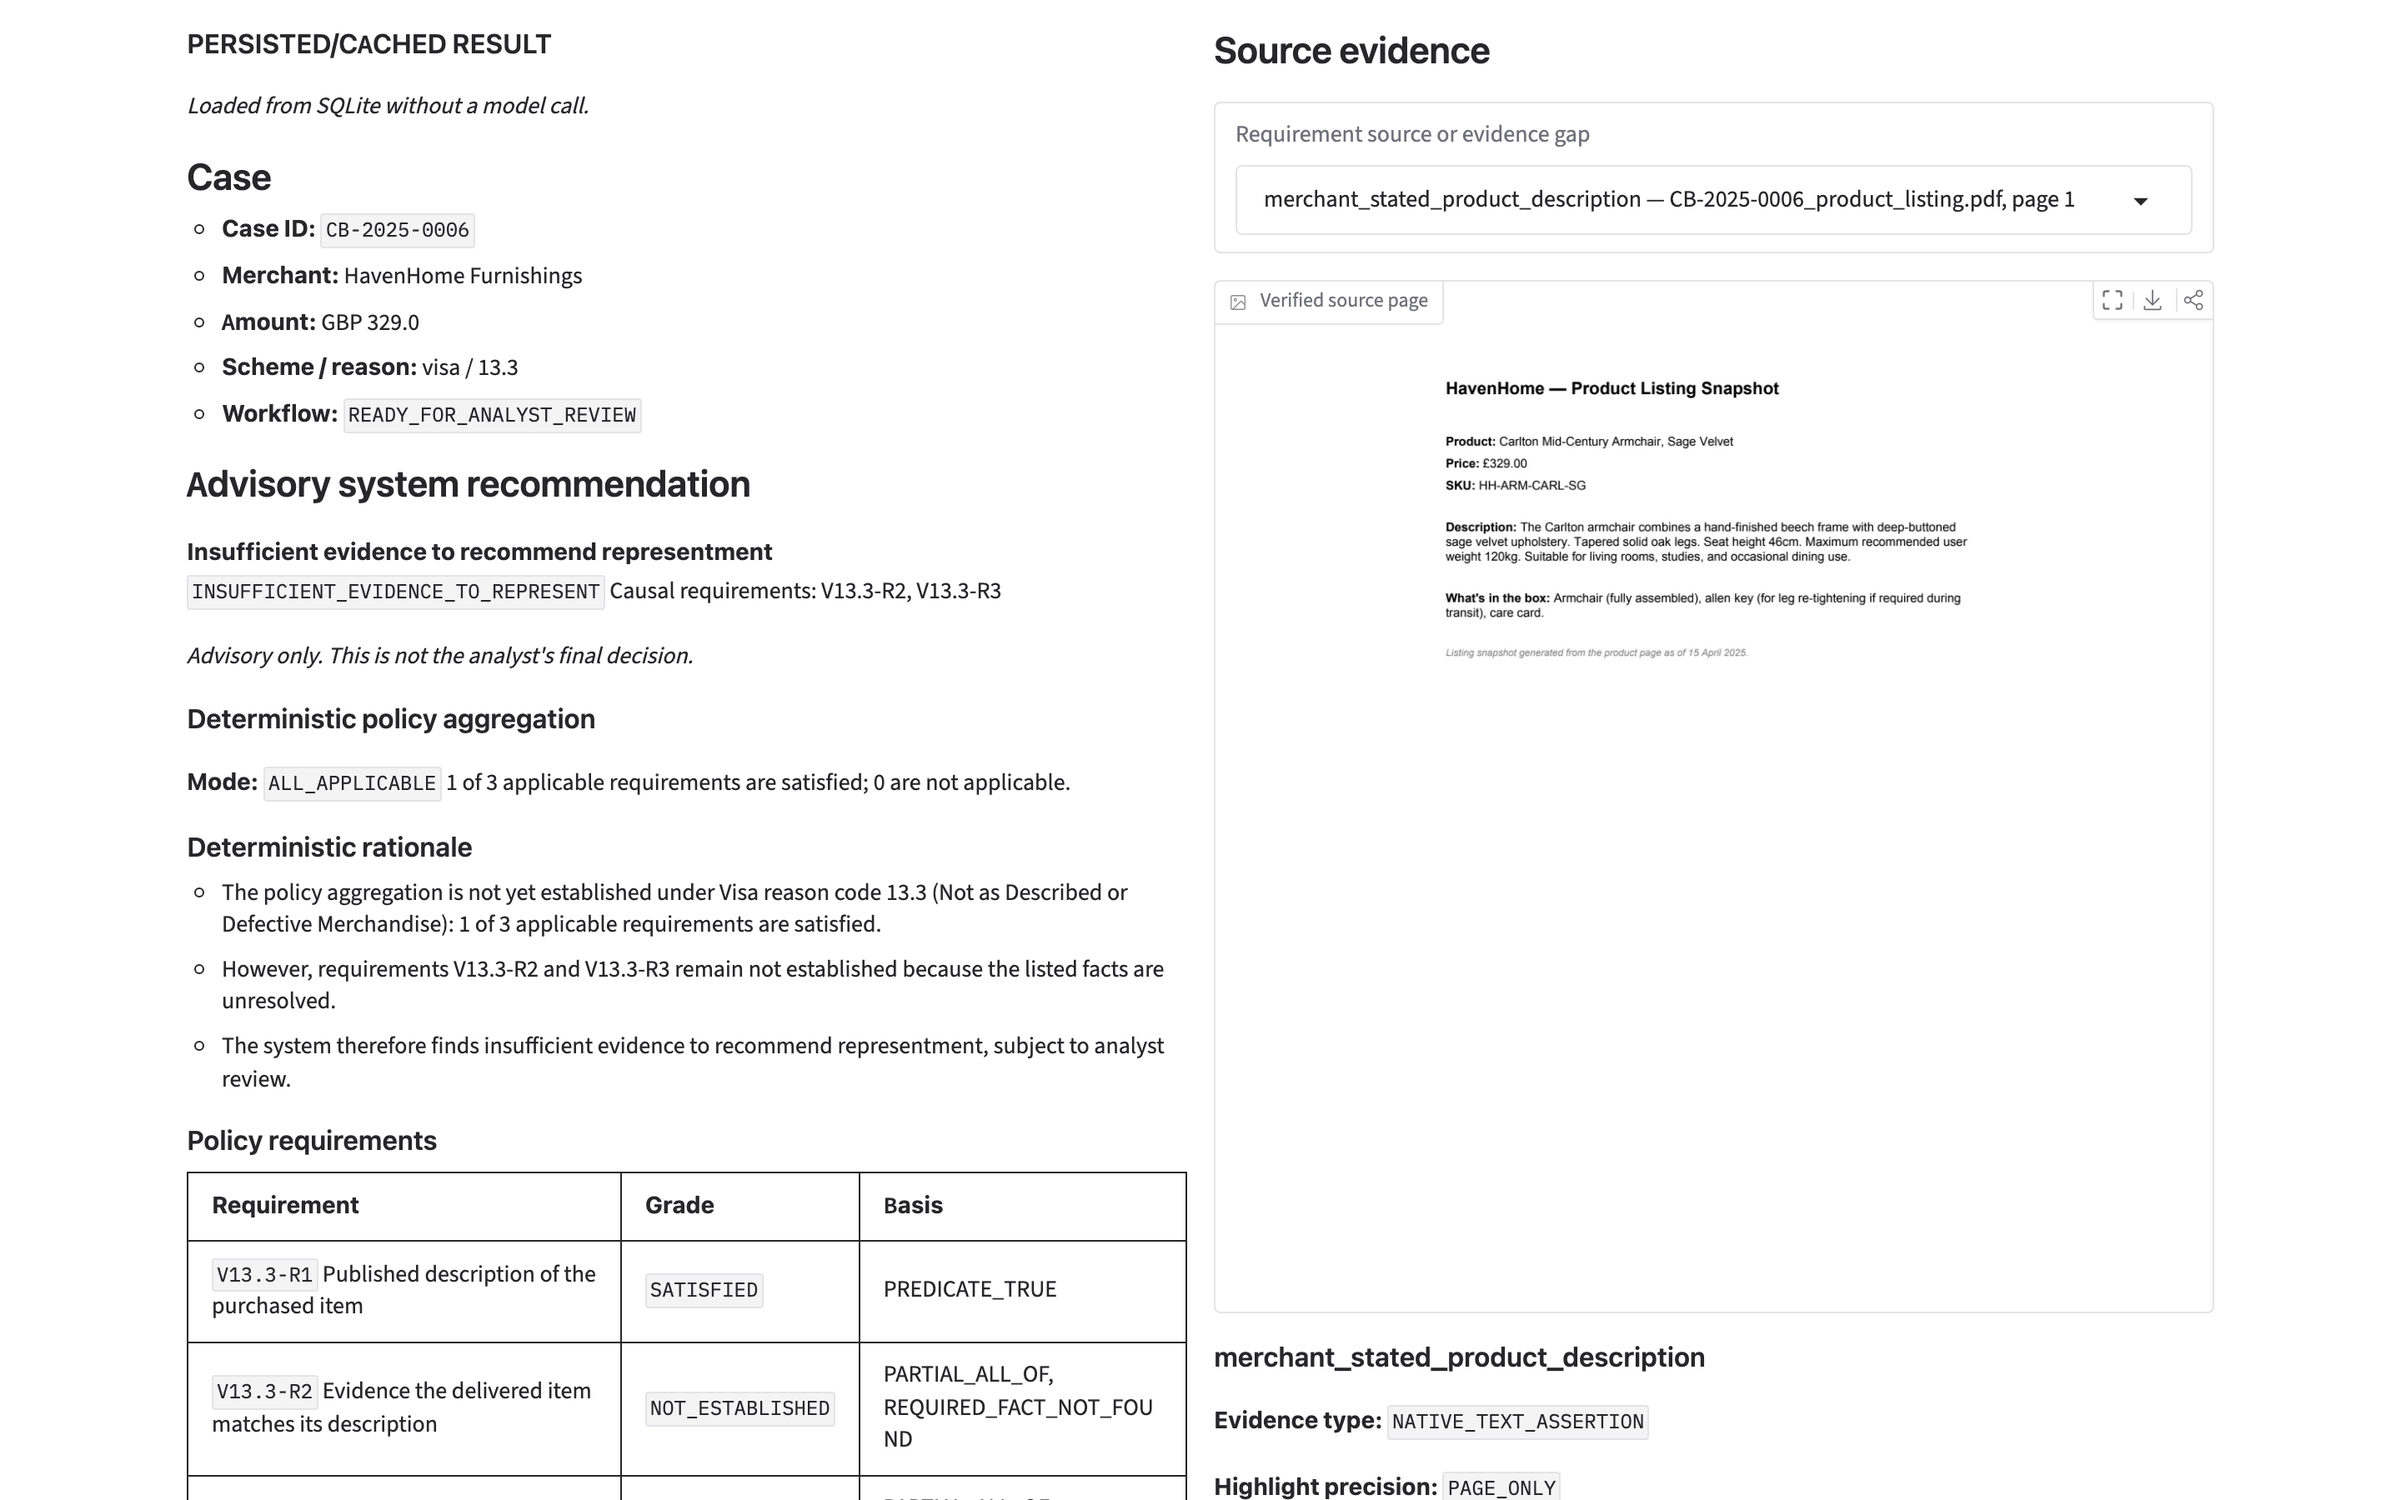
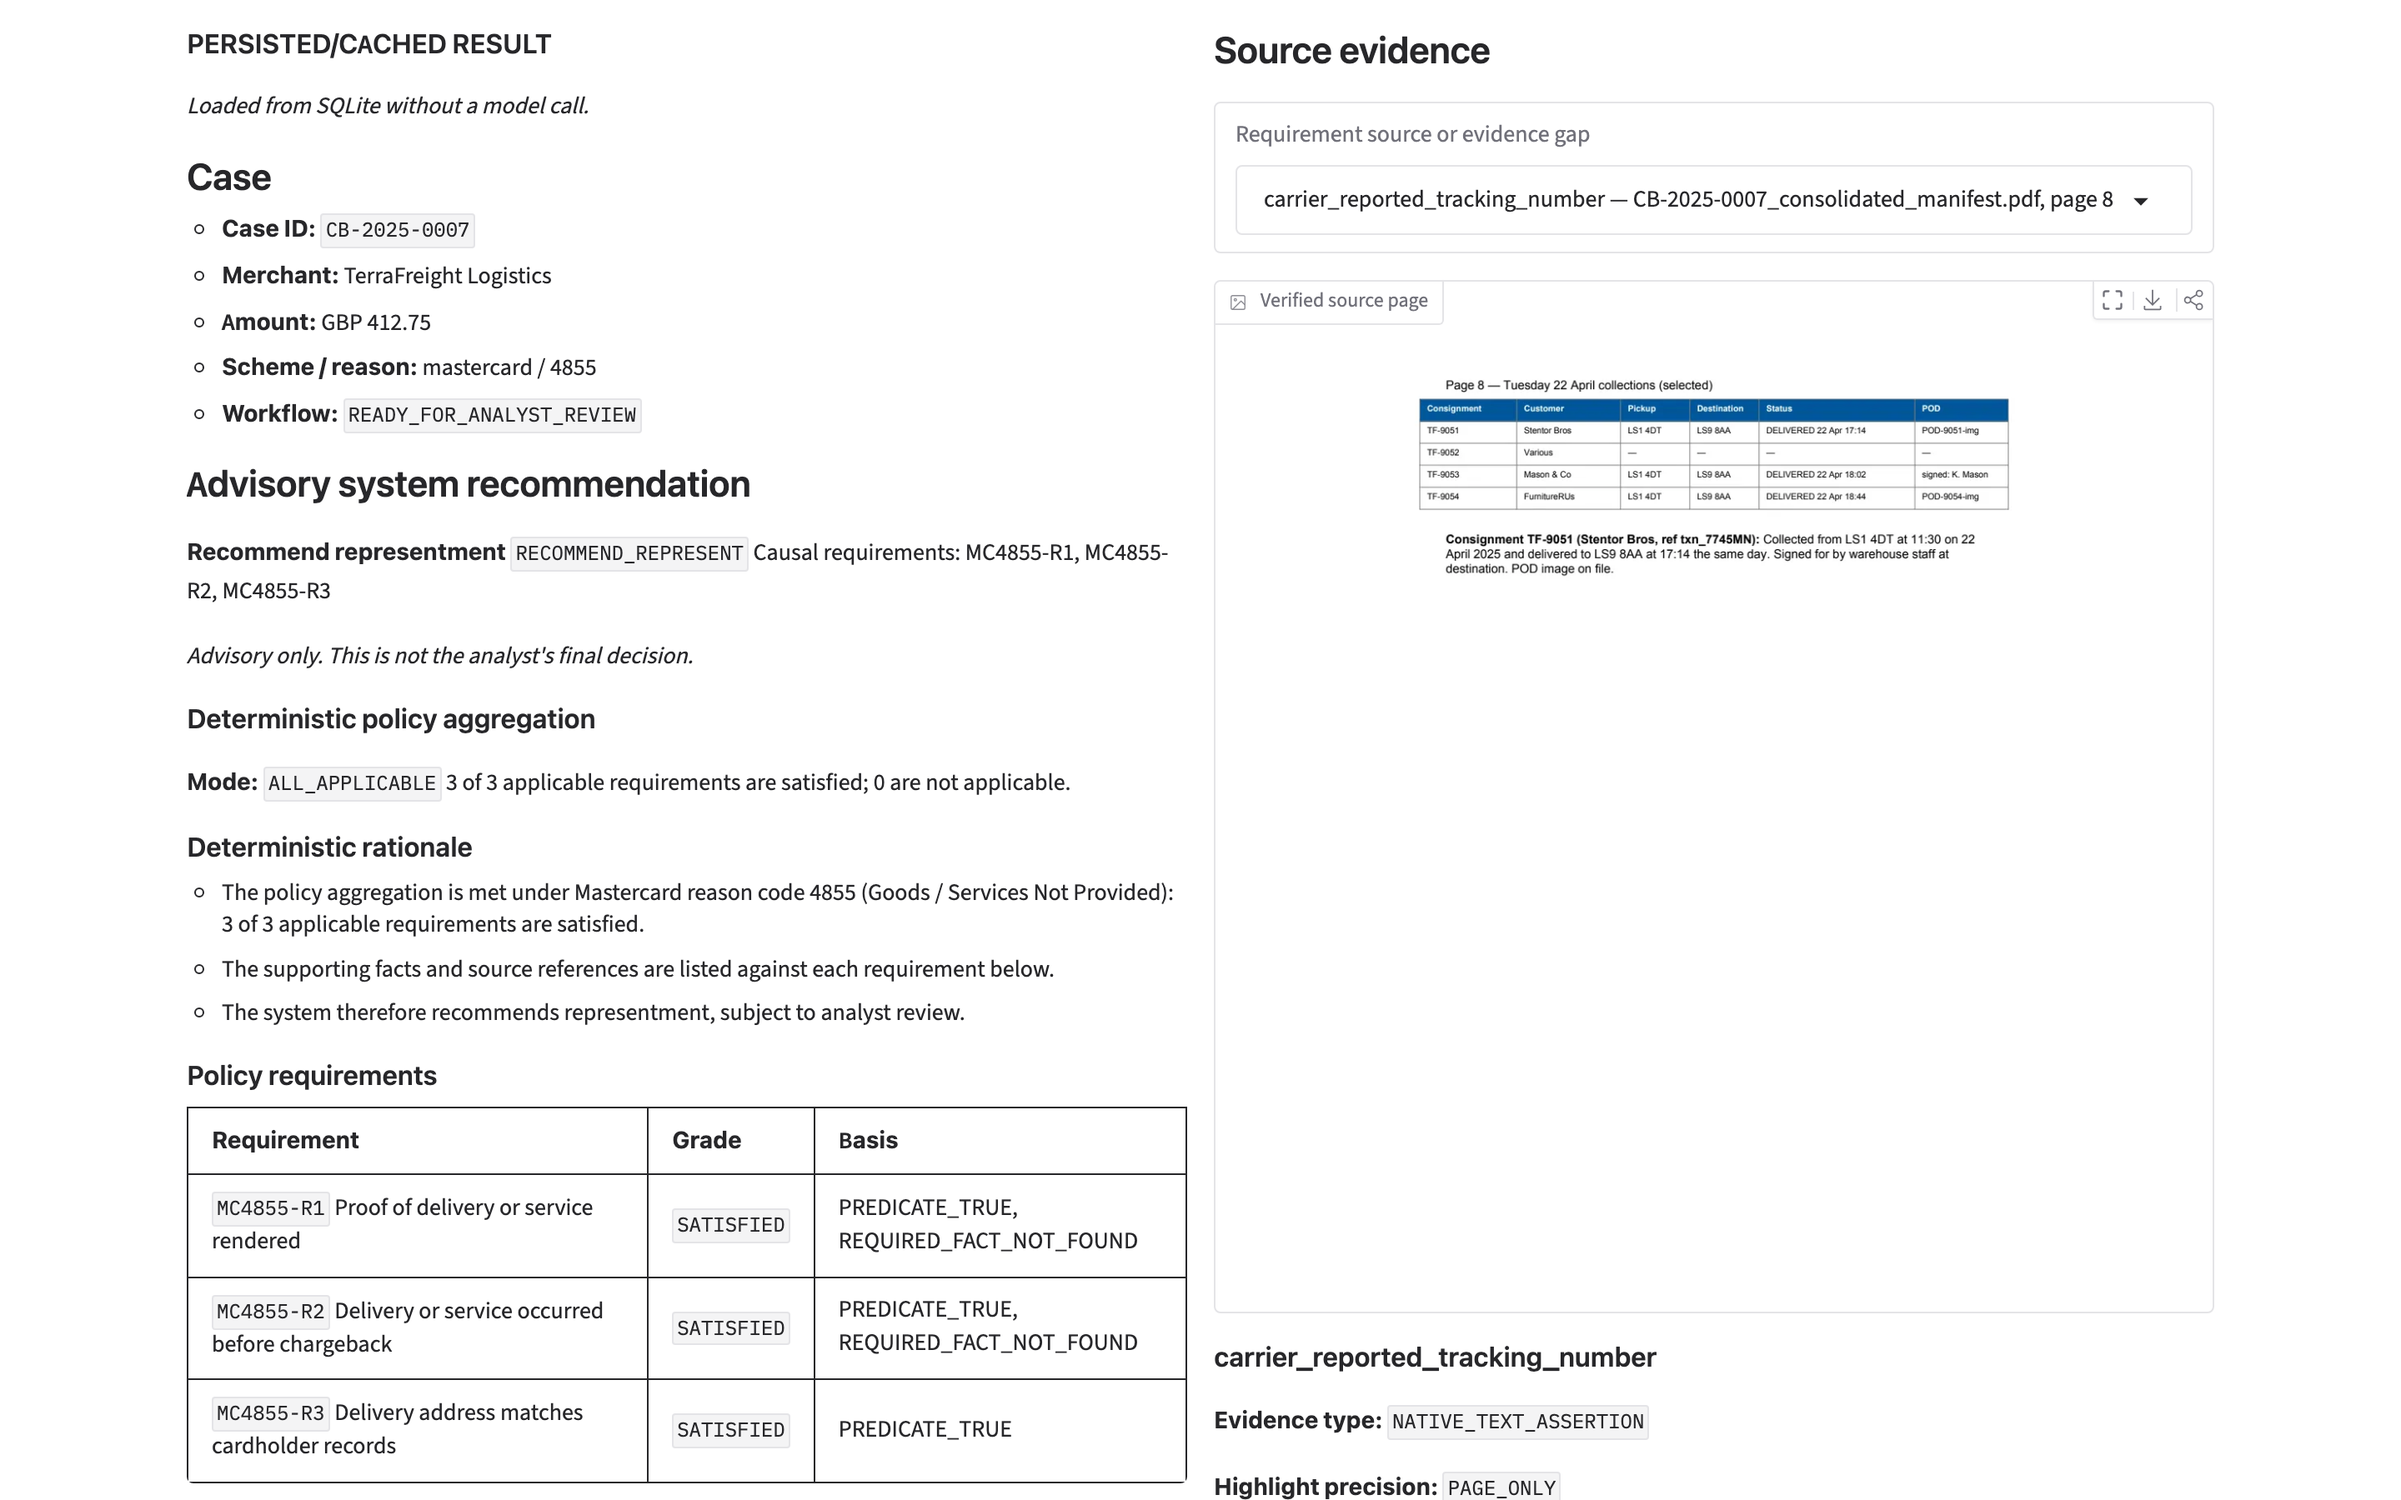
Switch to proprietary licence; use positive-recommendation screenshot

diff --git a/README.md b/README.md
@@ -348,4 +348,5 @@ satisfy the live extraction contract. These are different claims.
 
 ## Licence
 
-Released under the [MIT Licence](LICENSE).
+Copyright © 2026 Victor Eigbefoh. All rights reserved. The code is
+shared publicly for viewing and evaluation only; see [LICENSE](LICENSE).
